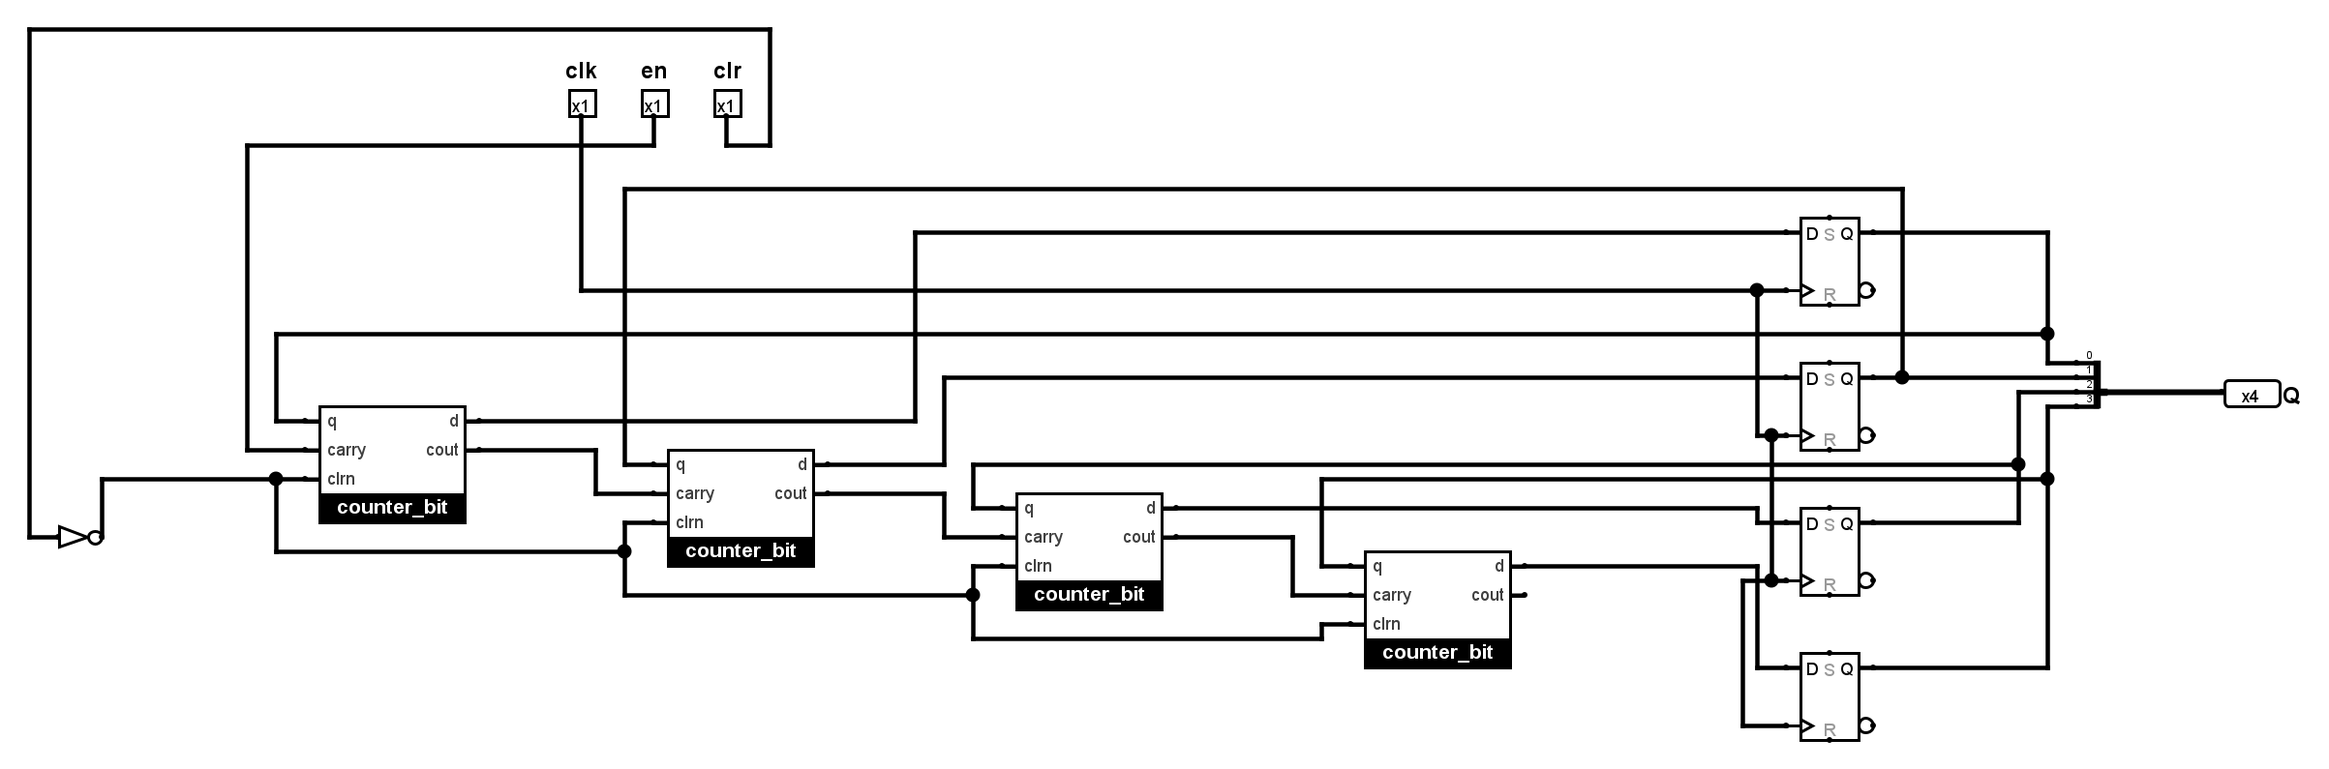
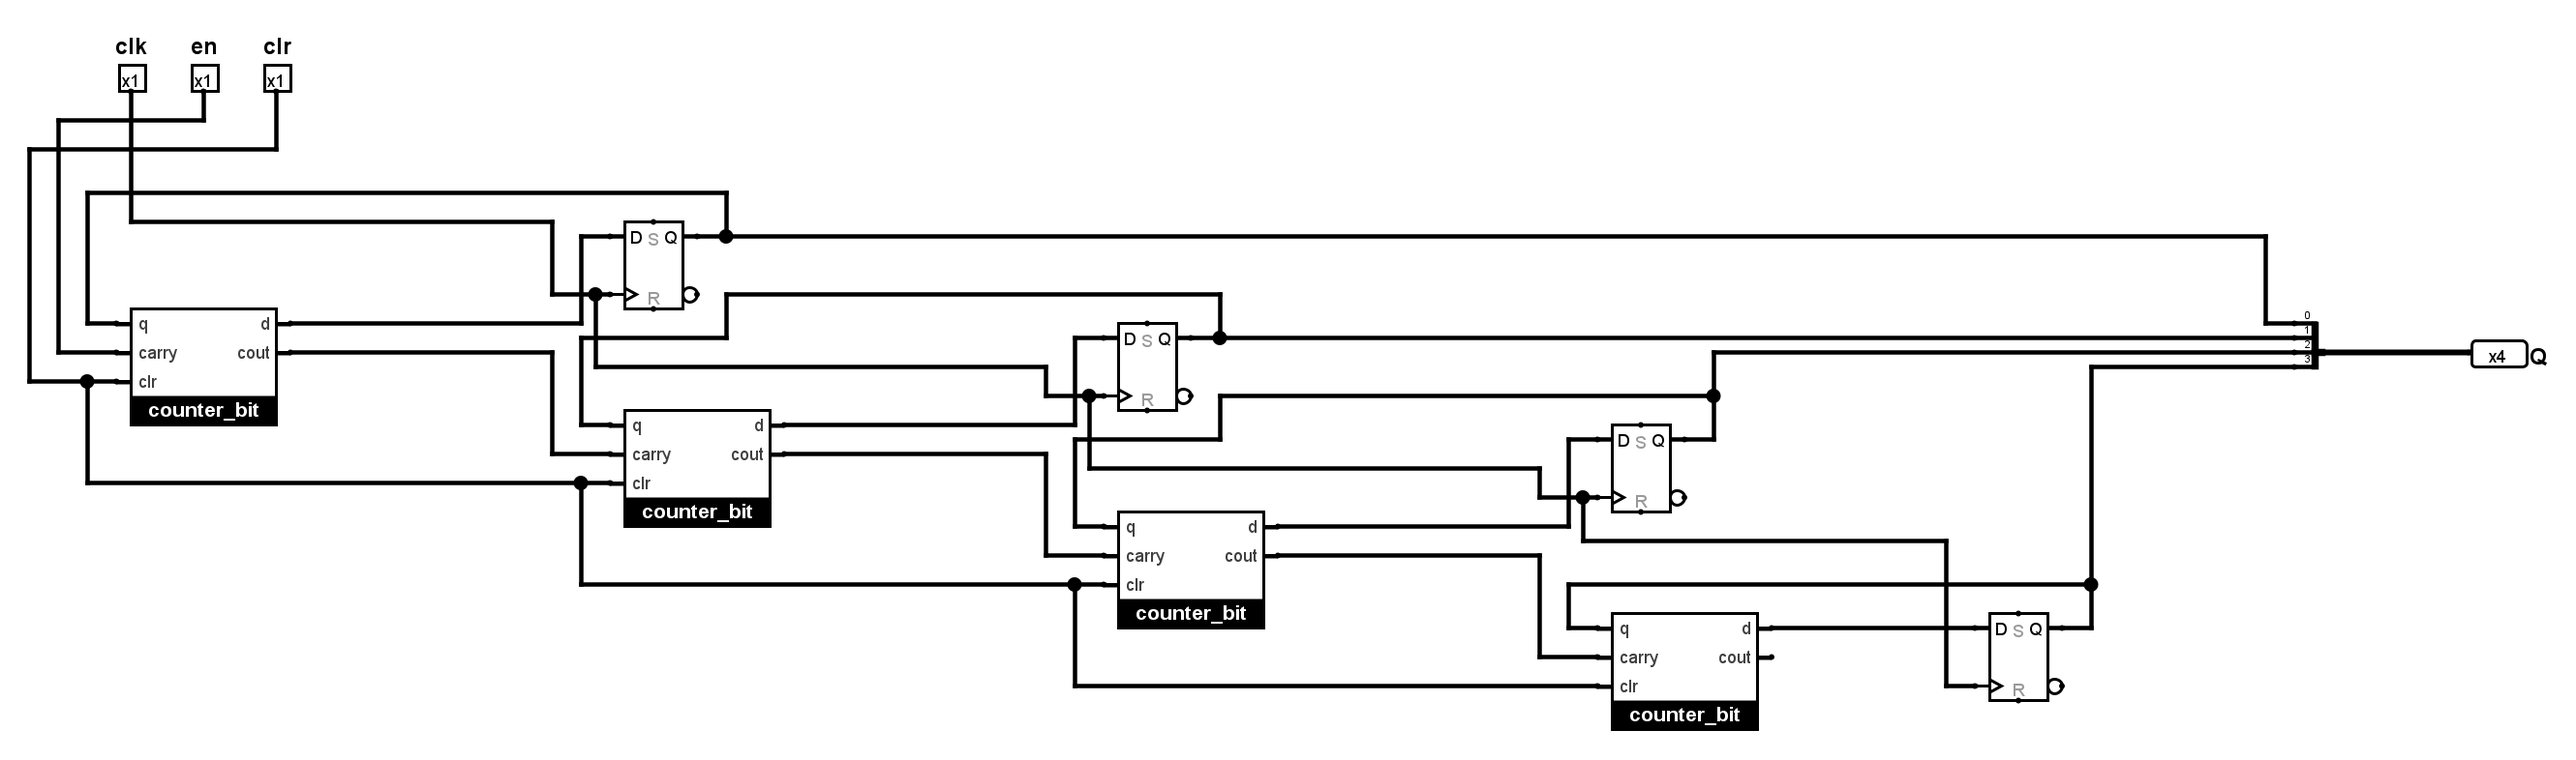
Layout: keep each flip-flop beside its next-state logic
The pull-right step moved every flip-flop next to its only forward
consumer, the output merge, so in counter(4) all four sat in the last
column and each Q ran back across the drawing. A node that drives a
feedback edge now stays at its longest-path depth, one column after
the logic that feeds it. The feedback search also tries clocked
elements last as roots, so a loop breaks on the edge out of the
flip-flop even when no combinational node is a source.

generate.counter: counter_bit takes an active-high clr as its last
data input and clears through a negated AND input. The top level no
longer needs an inverter, which used to sit alone at the left edge
with the clr wire looping around it.

counter(4) goes from 15 to 11 crossings and from 6 to 5 wire-spacing
warnings. The other examples and the FSM, register file and
mux_register renders are unchanged. The counter example now uses the
default spacing.

diff --git a/logisim/layout.py b/logisim/layout.py
@@ -117,10 +117,19 @@ def _layers(circ: Circuit) -> dict[int, int]:
                 preds[id(n)].append(src.node)
                 succs[source].append(n)
 
-    # Remove feedback: DFS from sources, drop back edges.
+    # Remove feedback: DFS from sources, drop back edges. Clocked elements are
+    # tried last as roots, so a loop through one breaks on the edge out of it.
     back: set[tuple[int, int]] = set()
     state: dict[int, int] = {}
-    order = sorted(nodes, key=lambda n: (0 if n.role == "input" else 1 if not preds[id(n)] else 2, n.index))
+
+    def root_rank(n: Node) -> int:
+        if n.role == "input":
+            return 0
+        if not preds[id(n)]:
+            return 1
+        return 3 if any(logical_port(n, p) == "clk" for p in n.inputs) else 2
+
+    order = sorted(nodes, key=lambda n: (root_rank(n), n.index))
     for root in order:
         if id(root) in state:
             continue
@@ -172,10 +181,13 @@ def _layers(circ: Circuit) -> dict[int, int]:
         depth(n)
     logic_max = max((layer[id(n)] for n in nodes if n.role not in ("input", "output")), default=0)
     output_only = output_drivers - other_drivers
+    feedback_drivers = {src for src, _ in back}
     # Pull sources and early nodes right, next to their first consumer.
     # Output-only drivers go immediately before the shared output column.
+    # A node that drives a feedback edge (a flip-flop's Q back into its
+    # next-state logic) stays beside that logic, so the loop stays short.
     for n in sorted(nodes, key=lambda n: -layer[id(n)]):
-        if n.role in ("input", "output"):
+        if n.role in ("input", "output") or id(n) in feedback_drivers:
             continue
         ss = [layer[id(s)] for s in fsuccs.get(id(n), []) if s.role != "output"]
         if ss:

diff --git a/logisim/generate.py b/logisim/generate.py
@@ -1402,8 +1402,10 @@ def counter(width: int = 4, *, clear: str = "sync", spacing: str = "roomy",
     proj = Project(bit, top, main="counter")
     q = bit.input("q")
     carry = bit.input("carry")
-    clrn = bit.input("clrn")
-    d = bit.and_(bit.xor(q, carry), clrn)
+    bit_clr = bit.input("clr", control=False)
+    # d = (q ^ carry) & ~clr, with the inversion as a negated AND input so
+    # the top level needs no inverter between the clr pin and the cells.
+    d = bit.and_(bit.xor(q, carry), bit_clr, negate=(1,))
     bit.output("d", d)
     bit.output("cout", bit.and_(carry, q))
 
@@ -1411,14 +1413,14 @@ def counter(width: int = 4, *, clear: str = "sync", spacing: str = "roomy",
     en = top.input("en")
     clr = top.input("clr")
     if clear == "sync":
-        clrn: Signal = top.not_(clr)
+        cell_clr: Signal = clr
         ffs = [top.dff(None, clk) for _ in range(width)]
     else:
-        clrn = top.const(1)
+        cell_clr = top.const(0)
         ffs = [top.dff(None, clk, reset=clr) for _ in range(width)]
     chain: Signal = en
     for i in range(width):
-        unit = top.instance(bit, q=ffs[i].q, carry=chain, clrn=clrn)
+        unit = top.instance(bit, q=ffs[i].q, carry=chain, clr=cell_clr)
         top.connect(unit.d, ffs[i].D)
         chain = unit.cout
     top.output("Q", top.merge([f.q for f in ffs]), width=width)

diff --git a/examples/build.py b/examples/build.py
@@ -110,7 +110,7 @@ def traffic_light() -> Example:
 
 
 def counter() -> Example:
-    project = generate.counter(4, spacing="normal")
+    project = generate.counter(4)
     # Count from 1 through 15 to 0, then check hold and synchronous clear.
     count = {"en": 1, "clr": 0}
     steps = [count] * 17 + [{"en": 0, "clr": 0},

diff --git a/README.md b/README.md
@@ -290,7 +290,7 @@ The table lists component types with built-in geometry formulas, the builder's c
 - The JAR's normal launcher refuses to start when forced into AWT headless mode. The toolkit runs `-w` and `-tty table` through the normal launcher without opening the editor. Geometry probing and rendering use a separate headless Java entry point and Logisim's painter.
 - In the sequential harness, Logisim's `-tty table` prints outputs top to bottom, then left to right, without column headers. The harness drives inputs from a counter and ROM, uses a `halt` pin to stop, and indexes rows by step. Logisim omits `halt` from the output columns. The harness reads outputs after each rising edge with the next step's inputs applied, which affects Mealy outputs. Use a nonempty sequence and a labeled clock input, `clk` by default.
 - Simulation expects labeled pins. Test-vector headers require identifiers matching `[A-Za-z_][A-Za-z0-9_]*`. The CLI's expression tests accept only one-bit variables and outputs.
-- Placement layers ignore feedback edges when choosing columns, so sequential designs can have long return wires, especially from next-state logic to the D inputs of the counter. Try `compact`, `normal`, or `roomy` spacing and `use_tunnels=True` (`--tunnels` in the CLI). The router can also insert tunnels when wire routing fails.
+- Placement breaks each feedback loop at a flip-flop's output and places the flip-flop in the column after its next-state logic, so each Q feeds back one column. Outputs taken from several flip-flops still run across the drawing to the output column, and large sequential designs such as the register file stay dense. Try `compact`, `normal`, or `roomy` spacing and `use_tunnels=True` (`--tunnels` in the CLI). The router can also insert tunnels when wire routing fails.
 - Built-in geometry covers the types above. For other built-in components, the toolkit can ask the JAR for ports and bounds and cache the result. Lint skips connection checks where geometry is unavailable. The MCP server rejects projects with external libraries.
 - By default, edits refuse a move that overlaps another component, a width change that would cause a connected width mismatch, or an attribute change that would remove a connected port. Inserting a gate on a net with several drivers requires choosing a driver. Tidy refuses unknown geometry and rejects a reroute if its netlist signature changes.
 - When creating or renaming circuits, use names that start with an ASCII letter and contain only ASCII letters, digits, or single interior underscores. Logisim can rename other names on load, breaking references.
